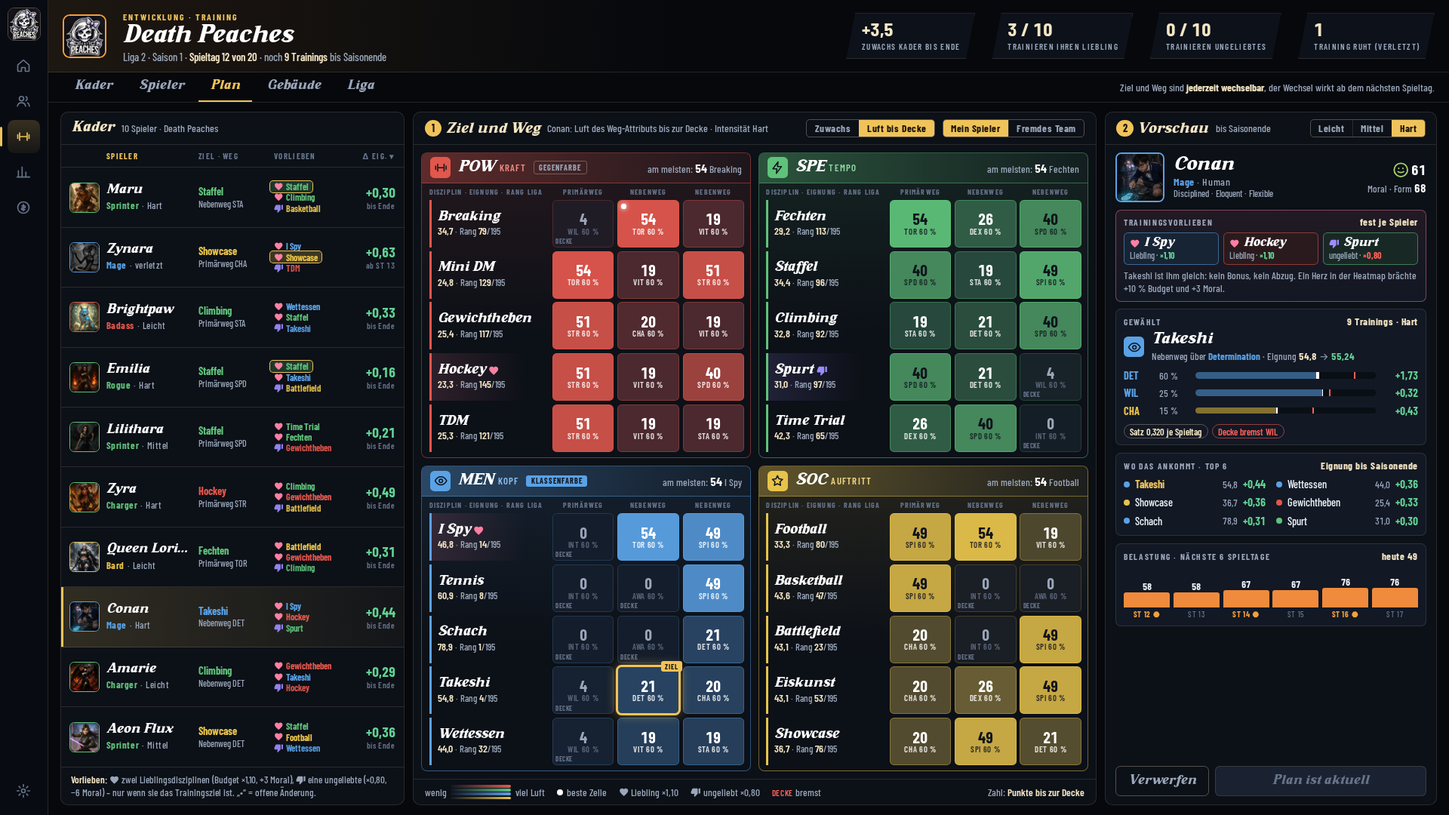
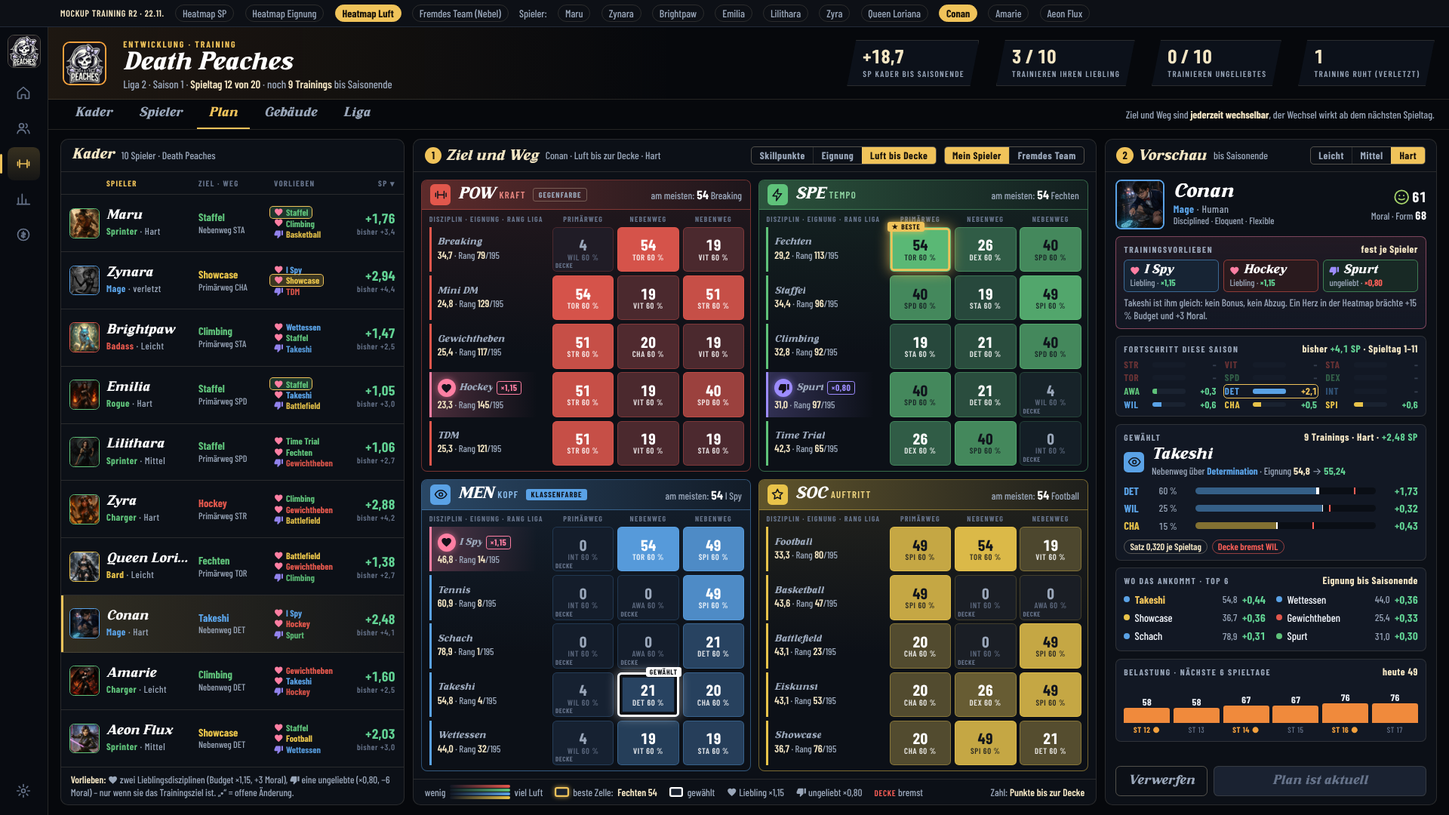
Konzept und Mockup: Training Runde 2b (Skillpunkte als Standard-Maß, Fortschritt je Attribut, Vorlieben ×1,15 / ×0,80)
- Heatmap rechnet standardmäßig mit der Summe der Skillpunkte bis Saisonende je Ziel und Weg; Eignung und Luft als Umschalter
- Fortschritt dieser Saison je Attribut in der Vorschau, bisher gesammelte SP in der Kaderliste
- Beste Zelle gold mit Marke, gewählte Zelle mit weißem Doppelrahmen, Vorlieben als gefülltes Symbol mit Faktor in der Zeile
- Stärke der Vorlieben wie die Attribut-Affinität (×1,15 / ×0,80), Balance neu gerechnet mit Ausgleich über den Satz je Spieltag

Claude-Session: https://claude.ai/code/session_01UYLNtXkprKr1XK4c3X2xQq

diff --git a/public/mockups/training-r2-22-11.html b/public/mockups/training-r2-22-11.html
@@ -148,20 +148,30 @@ main{display:grid;grid-template-rows:auto auto minmax(0,1fr);min-width:0;min-hei
 .zl{min-height:0;height:100%}
 .zl .dn{min-width:0;display:flex;flex-direction:column;justify-content:center;gap:.1rem;border-left:.2rem solid var(--c);padding-left:.5rem;height:100%}
 .zl .dn b{display:flex;align-items:center;gap:.3rem;font:400 1.12rem/1 var(--haus);color:#fff;white-space:nowrap}
-.zl .dn b svg{font-size:.9rem} .zl .dn b svg.lieb{color:var(--lieb)} .zl .dn b svg.unlieb{color:var(--unlieb)}
+.zl .dn b .dnn{overflow:hidden;text-overflow:ellipsis;min-width:0}
+.zl .dn b em{font-style:normal;flex:none;display:inline-flex;align-items:center;justify-content:center}
+.zl .dn b em.vb{width:1.5rem;height:1.5rem;border-radius:50%;font-size:.95rem;color:#14101a}
+.zl .dn b em.vb.l{background:var(--lieb);box-shadow:0 0 .5rem rgba(255,127,163,.6)} .zl .dn b em.vb.u{background:var(--unlieb);box-shadow:0 0 .5rem rgba(157,140,255,.6)}
+.zl .dn b em.vx{font:700 .74rem/1 var(--zahl);letter-spacing:.04em;padding:.14rem .3rem;border-radius:.2rem}
+.zl .dn b em.vx.l{color:var(--lieb);border:1px solid var(--lieb)} .zl .dn b em.vx.u{color:var(--unlieb);border:1px solid var(--unlieb)}
+.zl.lieb .dn{border-left-color:var(--lieb)} .zl.unlieb .dn{border-left-color:var(--unlieb)}
 .zl .dn span{font-size:.8rem;color:var(--leise);white-space:nowrap} .zl .dn span b{display:inline;font:600 .86rem/1 var(--zahl);color:var(--creme)}
-.zl.lieb .dn{background:linear-gradient(90deg,rgba(255,127,163,.14),transparent 80%)}
-.zl.unlieb .dn{background:linear-gradient(90deg,rgba(157,140,255,.14),transparent 80%)}
+.zl.lieb .dn{background:linear-gradient(90deg,rgba(255,127,163,.26),transparent 90%)}
+.zl.unlieb .dn{background:linear-gradient(90deg,rgba(157,140,255,.26),transparent 90%)}
 .hz{position:relative;height:100%;min-height:0;border-radius:.35rem;display:flex;flex-direction:column;align-items:center;justify-content:center;gap:.05rem;
   background:color-mix(in srgb,var(--c) calc(var(--t)*1%),#111723);border:1px solid color-mix(in srgb,var(--c) calc(18% + var(--t)*.6%),transparent);color:#fff;text-align:center}
 .hz b{font-size:1.28rem;font-weight:700;line-height:1}
 .hz span{font-size:.68rem;font-weight:600;letter-spacing:.06em;opacity:.85;line-height:1}
 .hz.hell{color:#10141c}
 .hz.kalt b{color:var(--leise)} .hz.kalt span{color:var(--stumm)}
-.hz:hover{outline:2px solid #fff;outline-offset:-2px}
-.hz.an{outline:.19rem solid var(--gold);outline-offset:-1px;box-shadow:0 0 1rem rgba(240,195,90,.55);z-index:2}
-.hz.an::after{content:"Ziel";position:absolute;top:-.5rem;right:-.3rem;font-size:.6rem;font-weight:700;letter-spacing:.1em;text-transform:uppercase;background:var(--gold);color:#17120a;padding:.05rem .3rem;border-radius:.2rem}
-.hz.best::before{content:"";position:absolute;left:.25rem;top:.25rem;width:.42rem;height:.42rem;border-radius:50%;background:#fff;box-shadow:0 0 .4rem #fff}
+.hz:hover{outline:1px dashed rgba(255,255,255,.8);outline-offset:-1px}
+/* R2b: Gewaehlt = weisser Doppelrahmen (eigene Farbe), Beste Zelle = Gold mit Stern. Beides zugleich: aussen weiss, innen gold. */
+.hz.an{outline:.2rem solid #fff;outline-offset:-.2rem;box-shadow:inset 0 0 0 .36rem #0b0e14,0 0 .9rem rgba(255,255,255,.5);z-index:3}
+.hz.best{box-shadow:inset 0 0 0 .17rem var(--gold),0 0 1.1rem rgba(240,195,90,.75);z-index:2}
+.hz.an.best{box-shadow:inset 0 0 0 .2rem #fff,inset 0 0 0 .38rem var(--gold),0 0 1rem rgba(240,195,90,.7);outline:0}
+.hz em{position:absolute;top:-.48rem;font-style:normal;font-size:.6rem;font-weight:700;letter-spacing:.08em;text-transform:uppercase;padding:.06rem .32rem;border-radius:.2rem;line-height:1.15;white-space:nowrap;opacity:1}
+.hz em.bm{left:-.25rem;background:var(--gold);color:#17120a;box-shadow:0 0 .5rem rgba(240,195,90,.8)}
+.hz em.gm{right:-.25rem;background:#fff;color:#0b0e14} .hz.best em.gm{top:auto;bottom:-.48rem}
 .hz .dk{position:absolute;left:.2rem;bottom:.12rem;font-size:.56rem;font-weight:700;letter-spacing:.06em;color:var(--warn);opacity:1}
 .hz.hell .dk{color:#7a1410}
 .hmf{flex:none;display:flex;align-items:center;gap:1rem;padding:.45rem .9rem;border-top:1px solid var(--linie);font-size:.84rem;color:var(--leise);white-space:nowrap;overflow:hidden}
@@ -170,7 +180,15 @@ main{display:grid;grid-template-rows:auto auto minmax(0,1fr);min-width:0;min-hei
 .skala i{display:block;width:7rem;height:.6rem;border-radius:.3rem;background:linear-gradient(90deg,#111723,var(--pow))}
 .skala i.s2{background:linear-gradient(90deg,#111723,var(--spe))} .skala i.s3{background:linear-gradient(90deg,#111723,var(--men))} .skala i.s4{background:linear-gradient(90deg,#111723,var(--soc))}
 .skala .st{display:flex;flex-direction:column;gap:.1rem} .skala .st i{width:5rem;height:.22rem}
-.hmf .p{display:inline-flex;align-items:center;gap:.3rem}
+.hmf .p,.hmf .lg{display:inline-flex;align-items:center;gap:.35rem}
+.hmf .lg i{display:inline-block;width:1.15rem;height:.8rem;border-radius:.18rem;background:#1a2230}
+.hmf .lg.b i{box-shadow:inset 0 0 0 .14rem var(--gold),0 0 .4rem rgba(240,195,90,.7)} .hmf .lg.g i{box-shadow:inset 0 0 0 .14rem #fff}
+/* Fortschritt dieser Saison je Attribut */
+.fs{display:grid;grid-template-columns:repeat(3,minmax(0,1fr));gap:.18rem .7rem}
+.fa{display:grid;grid-template-columns:2rem minmax(0,1fr) 2.2rem;gap:.35rem;align-items:center;font-size:.8rem;line-height:1.15}
+.fa span{font-weight:700;letter-spacing:.06em;color:var(--c)} .fa i{height:.42rem;border-radius:.2rem;background:#1a2230;overflow:hidden;display:block} .fa u{display:block;height:100%;background:var(--c);text-decoration:none}
+.fa b{text-align:right;font-weight:700;color:var(--gut,#62d394)} .fa.nix{opacity:.42} .fa.nix b{color:var(--stumm)}
+.fa.top{outline:1px solid var(--gold);outline-offset:.12rem;border-radius:.2rem} .fa.top b{color:var(--gold)}
 .hmf .p i{width:.5rem;height:.5rem;border-radius:50%;background:#fff;display:inline-block}
 
 /* VORSCHAU */
@@ -273,7 +291,7 @@ main{display:grid;grid-template-rows:auto auto minmax(0,1fr);min-width:0;min-hei
         <span class="lage">Liga 2 · Saison 1 · <b>Spieltag 12 von 20</b> · noch <b>9 Trainings</b> bis Saisonende</span>
       </div>
       <span class="sp"></span>
-      <div class="kpi"><strong class="t" id="k1">–</strong><span>Zuwachs Kader bis Ende</span></div>
+      <div class="kpi"><strong class="t" id="k1">–</strong><span>SP Kader bis Saisonende</span></div>
       <div class="kpi"><strong class="t" id="k2">–</strong><span>trainieren ihren Liebling</span></div>
       <div class="kpi"><strong class="t" id="k3">–</strong><span>trainieren Ungeliebtes</span></div>
       <div class="kpi"><strong class="t" id="k4">–</strong><span>Training ruht (verletzt)</span></div>
@@ -308,7 +326,7 @@ const KLASSE={Berserker:"pow",Warlord:"pow",Tank:"pow",Badass:"pow",Sprinter:"sp
 const SATZ={leicht:.178,mittel:.226,hart:.32}, LAST={leicht:6,mittel:12,hart:22}, MODN={leicht:"Leicht",mittel:"Mittel",hart:"Hart"};
 const ANTEIL=[.6,.25,.15];
 /* VORSCHLAG Trainingsvorlieben: Wirkung auf das Trainingsbudget und die Moral */
-const V_LIEB=1.10, V_UNLIEB=0.80, MORAL_LIEB=3, MORAL_UNLIEB=-6, TENDENZ=0.15;
+const V_LIEB=1.15, V_UNLIEB=0.80, MORAL_LIEB=3, MORAL_UNLIEB=-6, TENDENZ=0.15;
 const VORLIEBEN_AN=Q.get("vorlieben")!=="aus";
 const D=DATEN.D.map(d=>({...d,f:KAT[d.c]}));
 const DI=Object.fromEntries(D.map(d=>[d.id,d]));
@@ -358,28 +376,37 @@ const P=DATEN.P.map(p=>{
   q.neu={...q.ist};
   return q;
 });
+/* BEISPIELWERTE: Fortschritt dieser Saison je Attribut (Spieltag 1 bis 11). Modell: bisheriger Plan (Ziel, Weg, Intensitaet) ueber die
+   gespielten Spieltage, dazu zwei Attribute aus der Leistungs-Haelfte. Im Spiel kommt das aus dem Trainingsverlauf je Spieltag. */
+const GESPIELT=11;
+for(const p of P){
+  const out=Object.fromEntries(ATTR.map(a=>[a,0])), n=p.verl?GESPIELT-2:GESPIELT, b=SATZ[p.ist.mod]*n*vFaktor(p,p.ist.did);
+  for(const e of profil(p.ist.did,p.ist.weg)){const rest=p.ce?p.ce[e.a]-p.a[e.a]:20;out[e.a]+=b*e.anteil*(rest<=.5?.3:rest<=6?.65:1)}
+  const r=[...ATTR].sort((x,y)=>fnv(p.id+":b:"+y)-fnv(p.id+":b:"+x)).slice(0,2);out[r[0]]+=.35+fnv(p.id+":x")*.4;out[r[1]]+=.15+fnv(p.id+":y")*.25;
+  p.bisher=out;p.bisherS=Object.values(out).reduce((a,c)=>a+c,0);
+}
 const WUNSCH={Maru:"mittel","Queen Loriana":"leicht",Zyra:"mittel"};
-let S={sp:Math.max(0,P.findIndex(p=>p.key===(Q.get("spieler")||"maru"))),mass:Q.get("mass")==="luft"?"luft":"zuwachs",nebel:Q.get("nebel")==="1",sort:"reihe"};
+let S={sp:Math.max(0,P.findIndex(p=>p.key===(Q.get("spieler")||"maru"))),mass:["sp","zuwachs","luft"].includes(Q.get("mass"))?Q.get("mass"):"sp",nebel:Q.get("nebel")==="1",sort:"reihe"};
 if(Q.get("still")==="1")document.body.classList.add("still");
 
 function vpille(p,did,art,kurz){const d=DI[did];const akt=p.neu.did===did;
-  return `<span class="vp ${art>0?"l":"u"} c-${d.f}${akt?" akt":""}" data-tip="${art>0?"<b>Lieblingsdisziplin</b><br>Training mit diesem Ziel: Budget ×1,10 und +3 Moral, solange es Ziel ist.":"<b>Ungeliebte Disziplin</b><br>Training mit diesem Ziel: Budget ×0,80 und −6 Moral, solange es Ziel ist."}">${art>0?HERZ:DAUMEN}${d.n}</span>`}
+  return `<span class="vp ${art>0?"l":"u"} c-${d.f}${akt?" akt":""}" data-tip="${art>0?"<b>Lieblingsdisziplin</b><br>Training mit diesem Ziel: Budget ×1,15 und +3 Moral, solange es Ziel ist.":"<b>Ungeliebte Disziplin</b><br>Training mit diesem Ziel: Budget ×0,80 und −6 Moral, solange es Ziel ist."}">${art>0?HERZ:DAUMEN}${d.n}</span>`}
 
 function zeichneKader(){
   const el=$("p-kader");
-  const zeilen=P.map((p,i)=>{const zu=zuwachs(p,p.neu.did,p.neu.weg,p.neu.mod);return {p,i,dz:p.verl&&restST(p)===0?0:eigDelta(zu,p.neu.did)}});
+  const zeilen=P.map((p,i)=>{const zu=zuwachs(p,p.neu.did,p.neu.weg,p.neu.mod);return {p,i,dz:p.verl&&restST(p)===0?0:zu.summe}});
   if(S.sort==="dz")zeilen.sort((a,b)=>b.dz-a.dz);
   if(S.sort==="vor")zeilen.sort((a,b)=>vArt(b.p,b.p.neu.did)-vArt(a.p,a.p.neu.did)||a.p.n.localeCompare(b.p.n));
   el.innerHTML=`<div class="pk"><h2>Kader</h2><small>${P.length} Spieler · Death Peaches</small></div>
-  <div class="kh"><span></span><a data-sort="reihe" class="${S.sort==="reihe"?"an":""}">Spieler</a><span>Ziel · Weg</span><a data-sort="vor" class="${S.sort==="vor"?"an":""}">Vorlieben</a><a data-sort="dz" class="r ${S.sort==="dz"?"an":""}">Δ Eig. ▾</a></div>
+  <div class="kh"><span></span><a data-sort="reihe" class="${S.sort==="reihe"?"an":""}">Spieler</a><span>Ziel · Weg</span><a data-sort="vor" class="${S.sort==="vor"?"an":""}">Vorlieben</a><a data-sort="dz" class="r ${S.sort==="dz"?"an":""}" data-tip="Skillpunkte bis Saisonende mit dem aktuellen Plan.<br>Klein darunter: was er diese Saison schon gesammelt hat.">SP ▾</a></div>
   <div class="kl">${zeilen.map(({p,i,dz})=>{const d=DI[p.neu.did];const pr=profil(p.neu.did,p.neu.weg);const geaendert=p.neu.did!==p.ist.did||p.neu.weg!==p.ist.weg||p.neu.mod!==p.ist.mod;
     return `<a class="kz c-${p.kf}${i===S.sp&&!S.nebel?" an":""}${p.verl?" verl":""}" data-sp="${i}" data-nebel="0">
       <span class="po"><img src="..${p.port}" alt=""></span>
       <span class="nm"><b>${p.n}</b><span>${p.kl} <i>· ${p.verl?"verletzt":MODN[p.neu.mod]}</i></span></span>
       <span class="zi c-${d.f}"><b>${d.n}${geaendert?" •":""}</b><span>${p.neu.weg===0?"Primärweg":"Nebenweg"} ${AK[pr[0].a]}</span></span>
       <span class="vl">${VORLIEBEN_AN?vpille(p,p.v.lieb[0],1)+vpille(p,p.v.lieb[1],1)+vpille(p,p.v.unlieb,-1):'<span class="vp q">Regel aus</span>'}</span>
-      <span class="dz t ${dz>0?"plus":"null"}">${pm(dz)}<small>${p.verl?"ab ST "+p.zurueck:"bis Ende"}</small></span></a>`}).join("")}</div>
-  <div class="kfuss"><b>Vorlieben:</b> ${HERZ} zwei Lieblingsdisziplinen (Budget ×1,10, +3 Moral), ${DAUMEN} eine ungeliebte (×0,80, −6 Moral) – nur wenn sie das Trainingsziel ist. „•“ = offene Änderung.</div>`;
+      <span class="dz t ${dz>0?"plus":"null"}">${pm(dz)}<small>bisher ${pm(p.bisherS,1)}</small></span></a>`}).join("")}</div>
+  <div class="kfuss"><b>Vorlieben:</b> ${HERZ} zwei Lieblingsdisziplinen (Budget ×1,15, +3 Moral), ${DAUMEN} eine ungeliebte (×0,80, −6 Moral) – nur wenn sie das Trainingsziel ist. „•“ = offene Änderung.</div>`;
 }
 
 function zeichneHeat(){
@@ -387,7 +414,7 @@ function zeichneHeat(){
   if(S.nebel){
     const st=[2,2,1,1,0,0,0], sn=["unbekannt","beobachtet","gescoutet"];
     const ber=(v,s)=>s===2?z(v):s===1?`${Math.floor(v/5)*5}–${Math.floor(v/5)*5+5}`:`${Math.floor(v/10)*10}–${Math.floor(v/10)*10+10}`;
-    const zelle=(id,art,sicht)=>sicht?`<span class="fz c-${DI[id].f}"><b>${art>0?HERZ:DAUMEN}${DI[id].n}</b><span>${BAND.find(b=>b[0]===DI[id].f)[1]} · ${art>0?"trainiert ×1,10":"trainiert ×0,80"}</span></span>`:`<span class="fz q"><b>${FRAGE}unbekannt</b><span>${art>0?"Lieblingsdisziplin":"ungeliebte Disziplin"}</span></span>`;
+    const zelle=(id,art,sicht)=>sicht?`<span class="fz c-${DI[id].f}"><b>${art>0?HERZ:DAUMEN}${DI[id].n}</b><span>${BAND.find(b=>b[0]===DI[id].f)[1]} · ${art>0?"trainiert ×1,15":"trainiert ×0,80"}</span></span>`:`<span class="fz q"><b>${FRAGE}unbekannt</b><span>${art>0?"Lieblingsdisziplin":"ungeliebte Disziplin"}</span></span>`;
     el.innerHTML=`<div class="pk"><h2>Cash Creators</h2><small>fremdes Team · Vorlieben unter Scouting-Nebel</small><span class="sp"></span><div class="seg"><a data-nebel="0">Mein Spieler</a><a class="an">Fremdes Team</a></div></div>
     <div class="fh"><span></span><span>Spieler</span><span>Scouting</span><span>Liebling 1</span><span>Liebling 2</span><span>Ungeliebt</span><span class="r">Beste Disziplin</span></div>
     <div class="fl">${DATEN.F.map((f,i)=>{const v=vorlieben({id:f.id,kl:f.kl,e:f.e});const kf=KLASSE[f.kl]||"bal";const s=st[i];const bd=[...D].sort((a,b)=>f.e[b.id]-f.e[a.id])[0];
@@ -397,25 +424,29 @@ function zeichneHeat(){
   const mod=p.neu.mod;
   const zellen={}; let max=0, min=1e9, best=null;
   for(const d of D)for(let w=0;w<3;w++){
-    const zu=zuwachs(p,d.id,w,mod); const v=S.mass==="luft"?Math.max(0,(p.ce?p.ce[profil(d.id,w)[0].a]:99)-p.a[profil(d.id,w)[0].a]):eigDelta(zu,d.id);
-    zellen[d.id+w]={v,zu}; if(v>max){max=v;best=d.id+w} if(v<min)min=v;
+    const zu=zuwachs(p,d.id,w,mod); const eg=eigDelta(zu,d.id); const v=S.mass==="luft"?Math.max(0,(p.ce?p.ce[profil(d.id,w)[0].a]:99)-p.a[profil(d.id,w)[0].a]):S.mass==="sp"?zu.summe:eg;
+    /* beste Zelle: groesster Wert; bei gleichen Skillpunkten entscheidet der Eignungszuwachs */
+    zellen[d.id+w]={v,zu,eg}; if(v>max+1e-9||(Math.abs(v-max)<1e-9&&best&&eg>zellen[best].eg)){max=v;best=d.id+w} if(v<min)min=v;
   }
+  if(!best)best=D[0].id+"0";
+  const MT={sp:"Skillpunkte bis Saisonende",zuwachs:"Eignungszuwachs bis Saisonende",luft:"Luft bis zur Decke"}[S.mass];
+  const fm=v=>S.mass==="luft"?z(v,0):pm(v), bz=zellen[best], bd=DI[best.slice(0,-1)];
   const kf=p.kf;
-  el.innerHTML=`<div class="pk"><h2><b>1</b>Ziel und Weg</h2><small>${p.n}: ${S.mass==="luft"?"Luft des Weg-Attributs bis zur Decke":"Eignungszuwachs im Ziel bis Saisonende"} · Intensität ${MODN[mod]}</small><span class="sp"></span>
-    <div class="seg"><a data-mass="zuwachs" class="${S.mass==="zuwachs"?"an":""}">Zuwachs</a><a data-mass="luft" class="${S.mass==="luft"?"an":""}">Luft bis Decke</a></div><div class="seg"><a class="an">Mein Spieler</a><a data-nebel="1">Fremdes Team</a></div></div>
+  el.innerHTML=`<div class="pk"><h2><b>1</b>Ziel und Weg</h2><small>${p.n} · ${MT} · ${MODN[mod]}</small><span class="sp"></span>
+    <div class="seg"><a data-mass="sp" class="${S.mass==="sp"?"an":""}" data-tip="<b>Standard.</b> Summe der Skillpunkte über alle drei Attribute des Wegs bis Saisonende. Mit dieser Zahl rechnen Vorschau und Kaderliste.">Skillpunkte</a><a data-mass="zuwachs" class="${S.mass==="zuwachs"?"an":""}">Eignung</a><a data-mass="luft" class="${S.mass==="luft"?"an":""}">Luft bis Decke</a></div><div class="seg"><a class="an">Mein Spieler</a><a data-nebel="1">Fremdes Team</a></div></div>
   <div class="hm">${BAND.map(([f,k,n])=>{
     const ds=D.filter(d=>d.f===f).sort((a,b)=>Math.max(...[0,1,2].map(w=>zellen[b.id+w].v))-Math.max(...[0,1,2].map(w=>zellen[a.id+w].v)));
     let bb=null,bv=-1; for(const d of ds)for(let w=0;w<3;w++)if(zellen[d.id+w].v>bv){bv=zellen[d.id+w].v;bb=d}
-    return `<div class="band c-${f}"><div class="bk"><span class="ic">${ICON[f]}</span><h3>${k}<small>${n}</small></h3>${kf===f?'<span class="kf">Klassenfarbe</span>':kf!=="bal"&&GEGEN[kf]===f?'<span class="kf" style="background:transparent;color:var(--leise);border:1px solid var(--linie-2)">Gegenfarbe</span>':""}<span class="sp"></span><span class="best">am meisten: <b class="t">${S.mass==="luft"?z(bv,0):pm(bv)}</b> ${bb.n}</span></div>
+    return `<div class="band c-${f}"><div class="bk"><span class="ic">${ICON[f]}</span><h3>${k}<small>${n}</small></h3>${kf===f?'<span class="kf">Klassenfarbe</span>':kf!=="bal"&&GEGEN[kf]===f?'<span class="kf" style="background:transparent;color:var(--leise);border:1px solid var(--linie-2)">Gegenfarbe</span>':""}<span class="sp"></span><span class="best">am meisten: <b class="t">${fm(bv)}</b> ${bb.n}</span></div>
       <div class="sph"><span>Disziplin · Eignung · Rang Liga</span><span>Primärweg</span><span>Nebenweg</span><span>Nebenweg</span></div>
       <div class="zln">${ds.map(d=>{const va=vArt(p,d.id);
-        return `<div class="zl${va>0?" lieb":va<0?" unlieb":""}"><span class="dn" ${va?`data-tip="${va>0?"<b>Lieblingsdisziplin</b> von "+p.n+"<br>Budget ×1,10 · +3 Moral":"<b>Ungeliebte Disziplin</b> von "+p.n+"<br>Budget ×0,80 · −6 Moral"}"`:""}><b>${d.n}${va>0?HERZ:va<0?DAUMEN:""}</b><span><b class="t">${z(p.e[d.id])}</b> · Rang <b class="t">${p.rg[d.id]}</b>/${DATEN.ligaN}</span></span>
+        return `<div class="zl${va>0?" lieb":va<0?" unlieb":""}"><span class="dn" ${va?`data-tip="${va>0?"<b>Lieblingsdisziplin</b> von "+p.n+"<br>Budget ×1,15 · +3 Moral":"<b>Ungeliebte Disziplin</b> von "+p.n+"<br>Budget ×0,80 · −6 Moral"}"`:""}><b>${va?`<em class="vb ${va>0?"l":"u"}">${va>0?HERZ:DAUMEN}</em>`:""}<span class="dnn">${d.n}</span>${va?`<em class="vx ${va>0?"l":"u"}">${va>0?"×1,15":"×0,80"}</em>`:""}</b><span><b class="t">${z(p.e[d.id])}</b> · Rang <b class="t">${p.rg[d.id]}</b>/${DATEN.ligaN}</span></span>
         ${[0,1,2].map(w=>{const c=zellen[d.id+w],pr=profil(d.id,w),t=max>min?Math.pow((c.v-min)/(max-min),1.25):0;const an=p.neu.did===d.id&&p.neu.weg===w;
-          const tip=`<b>${d.n} · ${w===0?"Primärweg":"Nebenweg"} ${AN[pr[0].a]}</b><br>${pr.map(e=>`${AK[e.a]} ${Math.round(e.anteil*100)} % (Matrix ${e.g}) <i>${z(p.a[e.a])} → Decke ${p.ce?p.ce[e.a]:"?"}</i> ${pm(c.zu.att[e.a])}`).join("<br>")}<br>Eignung ${d.n}: ${z(p.e[d.id])} → <b>${z(p.e[d.id]+eigDelta(c.zu,d.id),2)}</b>${va?`<br>${va>0?"Lieblingsdisziplin ×1,10":"Ungeliebt ×0,80"}`:""}${c.zu.brems.length?`<br><i>Decke bremst: ${c.zu.brems.map(a=>AK[a]).join(", ")}</i>`:""}`;
-          return `<a class="hz${t>.62&&(f==="soc"||f==="spe")?" hell":""}${t<.2?" kalt":""}${an?" an":""}${d.id+w===best?" best":""}" style="--t:${(4+t*90).toFixed(1)}" data-z="${d.id}|${w}" data-tip='${tip}'><b class="t">${S.mass==="luft"?z(c.v,0):pm(c.v)}</b><span>${AK[pr[0].a]} 60 %</span>${c.zu.brems.includes(pr[0].a)?'<span class="dk">DECKE</span>':""}</a>`}).join("")}</div>`}).join("")}</div></div>`}).join("")}</div>
-  <div class="hmf"><span class="skala"><span>wenig</span><span class="st"><i></i><i class="s2"></i><i class="s3"></i><i class="s4"></i></span><span>viel ${S.mass==="luft"?"Luft":"Zuwachs"}</span></span>
-    <span class="p"><i></i>beste Zelle</span><span>${HERZ} Liebling ×1,10</span><span>${DAUMEN} ungeliebt ×0,80</span><span><b style="color:var(--warn);font-size:.7rem;letter-spacing:.06em">DECKE</b> bremst</span>
-    <span class="sp" style="flex:1"></span><span>Zahl: <b>${S.mass==="luft"?"Punkte bis zur Decke":"Eignung bis Saisonende"}</b></span></div>`;
+          const tip=`<b>${d.n} · ${w===0?"Primärweg":"Nebenweg"} ${AN[pr[0].a]}</b><br>${pr.map(e=>`${AK[e.a]} ${Math.round(e.anteil*100)} % (Matrix ${e.g}) <i>${z(p.a[e.a])} → Decke ${p.ce?p.ce[e.a]:"?"}</i> ${pm(c.zu.att[e.a])}`).join("<br>")}<br><b>Summe ${pm(c.zu.summe)} SP bis Saisonende</b><br>Eignung ${d.n}: ${z(p.e[d.id])} → <b>${z(p.e[d.id]+eigDelta(c.zu,d.id),2)}</b>${va?`<br>${va>0?"Lieblingsdisziplin ×1,15":"Ungeliebt ×0,80"}`:""}${c.zu.brems.length?`<br><i>Decke bremst: ${c.zu.brems.map(a=>AK[a]).join(", ")}</i>`:""}`;
+          return `<a class="hz${t>.62&&(f==="soc"||f==="spe")?" hell":""}${t<.2?" kalt":""}${an?" an":""}${d.id+w===best?" best":""}" style="--t:${(4+t*90).toFixed(1)}" data-z="${d.id}|${w}" data-tip='${tip}'><b class="t">${fm(c.v)}</b><span>${AK[pr[0].a]} 60 %</span>${d.id+w===best?'<em class="bm">★ Beste</em>':""}${an?'<em class="gm">Gewählt</em>':""}${c.zu.brems.includes(pr[0].a)?'<span class="dk">DECKE</span>':""}</a>`}).join("")}</div>`}).join("")}</div></div>`}).join("")}</div>
+  <div class="hmf"><span class="skala"><span>wenig</span><span class="st"><i></i><i class="s2"></i><i class="s3"></i><i class="s4"></i></span><span>viel ${S.mass==="luft"?"Luft":S.mass==="sp"?"SP":"Zuwachs"}</span></span>
+    <span class="lg b"><i></i>beste Zelle: <b>${bd.n} ${fm(bz.v)}</b></span><span class="lg g"><i></i>gewählt</span><span>${HERZ} Liebling ×1,15</span><span>${DAUMEN} ungeliebt ×0,80</span><span><b style="color:var(--warn);font-size:.7rem;letter-spacing:.06em">DECKE</b> bremst</span>
+    <span class="sp" style="flex:1"></span><span>Zahl: <b>${S.mass==="luft"?"Punkte bis zur Decke":S.mass==="sp"?"Skillpunkte bis Saisonende":"Eignung bis Saisonende"}</b></span></div>`;
 }
 
 function gesicht(m){const c=m>=80?"#62d394":m>=60?"#a6d36a":m>=40?"#e8c34a":m>=20?"#f08a3c":"#ff5a52";const mund=m>=60?"M8 14.500c1.200 1.600 6.800 1.600 8 0":m>=40?"M8.500 15h7":"M8 16c1.200-1.600 6.800-1.600 8 0";
@@ -424,9 +455,9 @@ function gesicht(m){const c=m>=80?"#62d394":m>=60?"#a6d36a":m>=40?"#e8c34a":m>=2
 function zeichneVor(){
   const el=$("p-vor");
   if(S.nebel){el.innerHTML=`<div class="pk"><h2>Die Regel in Zahlen</h2><small>Vorschlag 22.11.</small></div><div class="vs">
-    <div class="kasten vor"><h4>${HERZ} Zwei Lieblingsdisziplinen</h4><p class="vtx" style="margin:0">Ist eine davon das Trainingsziel: <b class="plus">+10 % Trainingsbudget</b> und <b class="plus">+3 Moral</b>, solange sie Ziel bleibt.</p></div>
+    <div class="kasten vor"><h4>${HERZ} Zwei Lieblingsdisziplinen</h4><p class="vtx" style="margin:0">Ist eine davon das Trainingsziel: <b class="plus">+15 % Trainingsbudget</b> und <b class="plus">+3 Moral</b>, solange sie Ziel bleibt.</p></div>
     <div class="kasten" style="border-color:rgba(157,140,255,.45)"><h4>${DAUMEN} Eine ungeliebte Disziplin</h4><p class="vtx" style="margin:0">Ist sie das Trainingsziel: <b class="minus">−20 % Trainingsbudget</b> und <b class="minus">−6 Moral</b>, solange sie Ziel bleibt.</p></div>
-    <div class="kasten"><h4>Warum 10 und 20</h4><p class="vtx" style="margin:0">Zwei von zwanzig Disziplinen geben +10 %, eine gibt −20 %: bei zufälliger Zielwahl hebt sich das <b>genau auf</b> (2 × 10 = 1 × 20). Zum Vergleich: Signatur-Attribut ×1,15, schwaches Attribut ×0,80, Fokusachse +8 %.</p></div>
+    <div class="kasten"><h4>Warum 15 und 20</h4><p class="vtx" style="margin:0">Dieselben Faktoren wie bei der Attribut-Affinität im Code: Signatur ×1,15, schwach ×0,80. Bei zufälliger Zielwahl bleibt ein kleines Plus (2 × 15 − 20 = +10 Punkte über 20 Disziplinen, <b>+0,5 %</b>); bei gezielter Wahl rund +4,7 % Budget. Ausgleich: Satz je Spieltag um rund 4,4 % senken, wenn die Messung das bestätigt.</p></div>
     <div class="kasten"><h4>Wie gewürfelt wird</h4><p class="vtx" style="margin:0">Fest je Spieler aus seiner ID, <b>stark zufällig</b>. Leichte Tendenz: Lieblinge eher in der Klassenfarbe und unter den besten fünf, die ungeliebte eher in der Gegenfarbe und unter den schwächsten fünf.</p></div>
     <div class="kasten"><h4>Was sich nicht ändert</h4><p class="vtx" style="margin:0">Die Matrix, die Leistungs-Hälfte der Entwicklung (40 %), die Wertung im Spiel. Die Vorliebe wirkt <b>nur</b> auf das Trainingsbudget – und nur, wenn die Disziplin das Ziel ist.</p></div>
     <div class="kasten"><h4>Sichtbarkeit</h4><p class="vtx" style="margin:0">Eigenes Team: immer. Fremde: nach Scouting-Stufe. Eine Einstellung schaltet den Nebel ganz ab.</p></div>
@@ -446,12 +477,14 @@ function zeichneVor(){
       <div class="mo"><span>${gesicht(p.mo)} <b class="t">${p.mo}</b>${dMo?` <b class="t ${dMo>0?"plus":"minus"}" style="font-size:.95rem">${dMo>0?"+":"−"}${Math.abs(dMo)}</b>`:""}</span><span>Moral · Form <b class="t" style="font-size:.95rem">${z(p.fo,0)}</b></span></div></div>
     ${p.verl?`<div class="ruht"><b>Nicht einsetzbar bis Spieltag 12.</b> Das Training ruht, Ziel und Intensität gelten ab der Rückkehr (Spieltag ${p.zurueck}). Gerechnet werden <b>${restST(p)} statt 9</b> Trainings; keine Trainingslast, solange er fehlt.</div>`:""}
     ${VORLIEBEN_AN?`<div class="kasten vor"><h4>Trainingsvorlieben<span class="sp"></span><em>fest je Spieler</em></h4>
-      <div class="vch">${p.v.lieb.map(id=>`<div class="vc c-${DI[id].f}${p.neu.did===id?" akt":""}"><b>${HERZ}${DI[id].n}</b><span>Liebling · <i class="plus">×1,10</i></span></div>`).join("")}<div class="vc u c-${DI[p.v.unlieb].f}${p.neu.did===p.v.unlieb?" akt":""}"><b>${DAUMEN}${DI[p.v.unlieb].n}</b><span>ungeliebt · <i class="minus">×0,80</i></span></div></div>
-      <p class="vtx">${va>0?`<b>Trainiert seine Lieblingsdisziplin:</b> +10 % Trainingsbudget und <b class="plus">+3 Moral</b>, solange ${d.n} das Ziel ist.`:va<0?`<b>Trainiert, was er nicht mag:</b> −20 % Trainingsbudget und <b class="minus">−6 Moral</b>, solange ${d.n} das Ziel ist.`:`${d.n} ist ihm gleich: kein Bonus, kein Abzug. Ein Herz in der Heatmap brächte +10 % Budget und +3 Moral.`}</p></div>`:""}
-    <div class="kasten c-${d.f}"><h4>Gewählt${geaendert?' · offene Änderung':""}<span class="sp"></span><em>${restST(p)} Trainings · ${MODN[p.neu.mod]}</em></h4>
+      <div class="vch">${p.v.lieb.map(id=>`<div class="vc c-${DI[id].f}${p.neu.did===id?" akt":""}"><b>${HERZ}${DI[id].n}</b><span>Liebling · <i class="plus">×1,15</i></span></div>`).join("")}<div class="vc u c-${DI[p.v.unlieb].f}${p.neu.did===p.v.unlieb?" akt":""}"><b>${DAUMEN}${DI[p.v.unlieb].n}</b><span>ungeliebt · <i class="minus">×0,80</i></span></div></div>
+      <p class="vtx">${va>0?`<b>Trainiert seine Lieblingsdisziplin:</b> +15 % Trainingsbudget und <b class="plus">+3 Moral</b>, solange ${d.n} das Ziel ist.`:va<0?`<b>Trainiert, was er nicht mag:</b> −20 % Trainingsbudget und <b class="minus">−6 Moral</b>, solange ${d.n} das Ziel ist.`:`${d.n} ist ihm gleich: kein Bonus, kein Abzug. Ein Herz in der Heatmap brächte +15 % Budget und +3 Moral.`}</p></div>`:""}
+    <div class="kasten"><h4>Fortschritt diese Saison<span class="sp"></span><em>bisher <b class="t plus">${pm(p.bisherS,1)} SP</b> · Spieltag 1–${GESPIELT}</em></h4>
+      <div class="fs">${(()=>{const mx=Math.max(...ATTR.map(a=>p.bisher[a])),ord=["pow","spe","men","soc"];return [...ATTR].sort((x,y)=>ord.indexOf(ACHSE[x])-ord.indexOf(ACHSE[y])).map(a=>{const b=p.bisher[a];return `<div class="fa c-${ACHSE[a]}${b>.005?"":" nix"}${b===mx?" top":""}" data-tip="<b>${AN[a]}</b><br>Saisonstart ${z(p.a[a]-b)} → heute <b>${z(p.a[a])}</b>${b>.005?"<br>diese Saison "+pm(b):"<br>diese Saison unverändert"}${b===mx?"<br><i>größter Fortschritt</i>":""}"><span>${AK[a]}</span><i><u style="width:${mx?b/mx*100:0}%"></u></i><b class="t">${b>.005?pm(b,1):"–"}</b></div>`}).join("")})()}</div></div>
+    <div class="kasten c-${d.f}"><h4>Gewählt${geaendert?' · offene Änderung':""}<span class="sp"></span><em>${restST(p)} Trainings · ${MODN[p.neu.mod]} · <b class="t plus">${pm(zu.summe)} SP</b></em></h4>
       <div class="wahl"><span class="bk" style="background:none;border:0;padding:0;height:auto"><span class="ic">${ICON[d.f]}</span></span><div class="zn"><b>${d.n}</b><span>${p.neu.weg===0?"Primärweg":"Nebenweg"} über <i>${AN[pr[0].a]}</i> · Eignung <b class="t" style="color:var(--creme)">${z(p.e[d.id])}</b> → <b class="t plus">${z(p.e[d.id]+eigDelta(zu,d.id),2)}</b></span></div></div>
       <div style="margin-top:.4rem">${pr.map(e=>{const a=p.a[e.a],c=p.ce?p.ce[e.a]:99,g=zu.att[e.a];return `<div class="ar c-${ACHSE[e.a]}" data-tip="<b>${AN[e.a]}</b><br>heute ${z(a)} · Decke ${c} · Matrixgewicht ${e.g}${zu.brems.includes(e.a)?"<br><i>Die Decke bremst diesen Anteil.</i>":""}"><span class="ab">${AK[e.a]}</span><span class="an2 t">${Math.round(e.anteil*100)} %</span><span class="ba"><i style="width:${a}%"></i><u style="left:${a}%;width:${Math.max(.6,g)}%"></u><s style="left:${c}%"></s></span><span class="gw t plus">${pm(g)}</span></div>`}).join("")}</div>
-      <div class="fk"><span>Satz ${z(SATZ[p.neu.mod],3)} je Spieltag</span>${va>0?'<span class="l">Liebling ×1,10</span>':va<0?'<span class="u">ungeliebt ×0,80</span>':""}${zu.brems.length?`<span class="s">Decke bremst ${zu.brems.map(a=>AK[a]).join(", ")}</span>`:'<span class="g">keine Decke im Weg</span>'}</div></div>
+      <div class="fk"><span>Satz ${z(SATZ[p.neu.mod],3)} je Spieltag</span>${va>0?'<span class="l">Liebling ×1,15</span>':va<0?'<span class="u">ungeliebt ×0,80</span>':""}${zu.brems.length?`<span class="s">Decke bremst ${zu.brems.map(a=>AK[a]).join(", ")}</span>`:'<span class="g">keine Decke im Weg</span>'}</div></div>
     <div class="kasten"><h4>Wo das ankommt · Top 6<span class="sp"></span><em>Eignung bis Saisonende</em></h4>
       <div class="an6">${ank.map(x=>`<div class="a6 c-${x.d.f}${x.d.id===d.id?" zielz":""}"><i></i><span>${x.d.n}</span><em class="t">${z(p.e[x.d.id])}</em><b class="t plus">${pm(x.dz)}</b></div>`).join("")}</div></div>
     <div class="kasten"><h4>Belastung · nächste 6 Spieltage<span class="sp"></span><em>heute ${z(p.fat,0)}</em></h4>
@@ -463,13 +496,13 @@ function zeichneVor(){
 
 function kpis(){
   let s=0,l=0,u=0,r=0;
-  for(const p of P){s+=eigDelta(zuwachs(p,p.neu.did,p.neu.weg,p.neu.mod),p.neu.did);const a=vArt(p,p.neu.did);if(a>0)l++;if(a<0)u++;if(p.verl)r++}
+  for(const p of P){s+=zuwachs(p,p.neu.did,p.neu.weg,p.neu.mod).summe;const a=vArt(p,p.neu.did);if(a>0)l++;if(a<0)u++;if(p.verl)r++}
   $("k1").textContent=pm(s,1);$("k2").textContent=l+" / "+P.length;$("k3").textContent=u+" / "+P.length;$("k4").textContent=r;
 }
 function alles(){zeichneKader();zeichneHeat();zeichneVor();kpis();demo()}
 function demo(){
   const p=P[S.sp];
-  $("demo").innerHTML=`<b>Mockup Training R2 · 22.11.</b> <a class="${!S.nebel&&S.mass==="zuwachs"?"an":""}" data-mass="zuwachs" data-nebel="0">Heatmap Zuwachs</a><a class="${!S.nebel&&S.mass==="luft"?"an":""}" data-mass="luft" data-nebel="0">Heatmap Luft</a><a class="${S.nebel?"an":""}" data-nebel="1">Fremdes Team (Nebel)</a>
+  $("demo").innerHTML=`<b>Mockup Training R2 · 22.11.</b> <a class="${!S.nebel&&S.mass==="sp"?"an":""}" data-mass="sp" data-nebel="0">Heatmap SP</a><a class="${!S.nebel&&S.mass==="zuwachs"?"an":""}" data-mass="zuwachs" data-nebel="0">Heatmap Eignung</a><a class="${!S.nebel&&S.mass==="luft"?"an":""}" data-mass="luft" data-nebel="0">Heatmap Luft</a><a class="${S.nebel?"an":""}" data-nebel="1">Fremdes Team (Nebel)</a>
     <span>Spieler:</span>${P.map((q,i)=>`<a data-sp="${i}" data-nebel="0" class="${!S.nebel&&i===S.sp?"an":""}">${q.n}</a>`).join("")}`;
 }
 document.addEventListener("click",e=>{

diff --git a/docs/design/training-r2-22-11.md b/docs/design/training-r2-22-11.md
@@ -11,14 +11,24 @@ Chris am 22.11., wörtlich:
    Diszis auch so übernehmen? Der Spieler hat 2 positive Diszis, auf die er Bock hat zu trainieren, wo er effizienter wird,
    und 1, wo er schlechter trainiert.“
 
+**Runde 2b, Chris am 22.11. zum Mockup, wörtlich:** „Mach in der Heatmap den Gesamtwert an Skillpunkten, den der Spieler
+sammeln würde bis Ende der Saison, das soll der Standardwert sein, mit dem gerechnet wird. Und man muss auch schon irgendwo den
+aktuellen Fortschritt erkennen, welche Stats der Spieler sich verbessert hat. Das Beste kannst du noch hervorheben und wie
+gesagt die 2 Diszis, die er gut kann, und 1, die er schlecht kann, markieren mit nem Icon oder so. Aktuell ausgewählt umrahmen,
+aber farblich erkennbar, nicht in der gleichen Farbe.“ Dazu seine Entscheidung zur Stärke: **Lieblingsdisziplin ×1,15,
+ungeliebte ×0,80**, genau wie die Attribut-Affinität im Code (`SIGNATURE_ORGANIC_GROWTH_MULTIPLIER = 1.15`,
+`WEAK_ORGANIC_GROWTH_MULTIPLIER = 0.8` in `lib/training/organic-season-progression.ts`). Moral +3 / −6 und „fest je Spieler“
+bleiben. Umgesetzt in den Abschnitten 2, 3.2, 3.3 und 3.6.
+
 ## 1. Aufnahmen
 
 Alle unter `docs/design/training-r2-22-11/`, je 1920×1080 und 2560×1440, ohne Seitenscroll, ohne JS-Fehler.
 
 | Ansicht | Datei | URL |
 |---|---|---|
-| Heatmap „Zuwachs“, Maru trainiert seinen Liebling Staffel | `heatmap-maru-*.png` | `?spieler=maru` |
-| Verletzte Spielerin (Zynara), Training ruht | `heatmap-zynara-verletzt-*.png` | `?spieler=zynara` |
+| Heatmap „Skillpunkte“ (Standard), Maru trainiert seinen Liebling Staffel | `heatmap-maru-*.png` | `?spieler=maru` |
+| Heatmap „Eignung“ (Zyra) | `heatmap-eignung-zyra-*.png` | `?spieler=zyra&mass=zuwachs` |
+| Verletzte Spielerin (Zynara), Training ruht; beste Zelle ist zugleich gewählt | `heatmap-zynara-verletzt-*.png` | `?spieler=zynara` |
 | Heatmap „Luft bis Decke“ (Conan) | `heatmap-luft-conan-*.png` | `?spieler=conan&mass=luft` |
 | Fremdes Team unter Scouting-Nebel, Regel in Zahlen | `nebel-fremdes-team-*.png` | `?nebel=1` |
 
@@ -40,20 +50,35 @@ Ein Klick auf eine Zelle setzt Ziel und Weg in einem Schritt; der getrennte Schr
   Zelle („am meisten: +0,72 Gewichtheben“). Die Tafel in der Klassenfarbe des Spielers trägt die Marke „Klassenfarbe“,
   die gegenüberliegende „Gegenfarbe“ (POW↔MEN, SPE↔SOC, wie bei den Formkarten).
 - **Farbe = Größe des Werts.** Jede Zelle ist im Farbton ihres Bereichs gefüllt, die Sättigung zeigt den Wert, gespreizt
-  zwischen kleinstem und größtem Wert des Spielers. Die Zahl steht immer in der Zelle, die beste Zelle trägt einen
-  weißen Punkt. In jeder Tafel stehen die Disziplinen absteigend nach ihrer besten Zelle.
-- **Zwei Maße, ein Umschalter:**
-  - **Zuwachs** (Standard): erwarteter Eignungszuwachs im Ziel bis Saisonende bei der gewählten Intensität.
+  zwischen kleinstem und größtem Wert des Spielers. Die Zahl steht immer in der Zelle. In jeder Tafel stehen die Disziplinen
+  absteigend nach ihrer besten Zelle.
+- **Drei Maße, ein Umschalter** (`&mass=sp|zuwachs|luft`):
+  - **Skillpunkte** (Standard, Runde 2b): Summe der Skillpunkte (SP), die der Spieler mit diesem Ziel und diesem Weg bis
+    Saisonende sammelt, über alle drei Attribute des Wegs (60/25/15), mit Decke und Vorliebe. **Das ist die Zahl, mit der
+    überall gerechnet wird:** Zelle, Vorschau („Gewählt … +1,76 SP“), Kaderliste (Spalte SP) und Kopf („SP Kader bis
+    Saisonende“) zeigen dieselbe Größe aus derselben Funktion.
+  - **Eignung**: erwarteter Eignungszuwachs im Ziel bis Saisonende (SP × Matrixgewicht). Das frühere Standard-Maß.
   - **Luft bis Decke**: Abstand des 60-%-Attributs zur individuellen Decke. Zeigt, wo langfristig Platz ist.
-- **Zeile:** Disziplin, Eignung, Rang in der eigenen Liga; Herz bzw. Daumen bei Vorlieben (Abschnitt 3).
+- **Beste Zelle** (Runde 2b): goldener Rahmen mit Schein und die Marke „★ Beste“; der Fuß nennt sie mit Namen und Wert. Haben
+  mehrere Zellen dieselben Skillpunkte, gewinnt die mit dem größeren Eignungszuwachs.
+- **Gewählte Zelle** (Runde 2b): **weißer Doppelrahmen** mit der Marke „Gewählt“. Weiß kommt sonst nirgends als Rahmen vor:
+  nicht bei der besten Zelle (Gold), nicht bei den vier Bereichen (Rot, Grün, Blau, Gelb), nicht bei den Vorlieben (Rosa,
+  Violett). Ist die beste Zelle gewählt, liegt Weiß außen und Gold innen, beide Marken bleiben lesbar.
+- **Zeile:** Disziplin, Eignung, Rang in der eigenen Liga. Vorlieben stehen **vor dem Namen als gefülltes rundes Symbol**
+  (Herz rosa, Daumen runter violett), dahinter der Faktor „×1,15“ bzw. „×0,80“; die Zeile ist hinterlegt und trägt links
+  einen Balken in derselben Farbe (Abschnitt 3).
 - **Zelle:** Wert, 60-%-Attribut, Marke „DECKE“, wenn die Decke diesen Weg bremst. Tooltip: alle drei Attribute mit
   Anteil, Matrixgewicht, Wert, Decke, Zuwachs, dazu die Eignung vorher und nachher.
 - **Vorschau rechts** rechnet mit derselben Funktion wie die Zelle: Weg-Profil 60/25/15 mit Decke, „Wo das ankommt“ als
   Top 6 über die Matrix, Belastung der nächsten sechs Spieltage, bei Verletzten der Hinweis „Training ruht bis …“ mit
   der gekürzten Zahl der Trainings. Diese vier Blöcke repariert der parallele Bau in `TrainingModern.tsx`; das Mockup
   zeigt sie nur stimmig mit.
-- **Kaderliste links** bleibt die Navigation: Ziel und Weg, Vorlieben, Zuwachs bis Saisonende; sortierbar nach Spieler,
-  Vorlieben und Zuwachs.
+- **Fortschritt dieser Saison** (Runde 2b): Kasten in der Vorschau mit allen zwölf Attributen, nach Bereich gefärbt, je
+  Attribut ein Mini-Balken und „+x“ seit Spieltag 1; unveränderte Attribute sind blass, der größte Fortschritt ist gold
+  umrandet, im Kopf steht die Summe („bisher +3,4 SP“). Tooltip: Wert am Saisonstart → heute. In der Kaderliste steht unter
+  der SP-Zahl klein „bisher +x“. Quelle im Spiel ist der Trainingsverlauf je Spieltag.
+- **Kaderliste links** bleibt die Navigation: Ziel und Weg, Vorlieben, Skillpunkte bis Saisonende (klein darunter das
+  bisher Gesammelte); sortierbar nach Spieler, Vorlieben und SP.
 
 ## 3. Trainingsvorlieben: zwei Lieblingsdisziplinen, eine ungeliebte
 
@@ -86,7 +111,7 @@ eine spätere Änderung der Würfelregel bestehende Spieler nicht umwirft.
 
 | | Trainingsbudget | Moral |
 |---|---:|---:|
-| Ziel ist eine **Lieblingsdisziplin** | **×1,10** | **+3**, solange sie Ziel ist |
+| Ziel ist eine **Lieblingsdisziplin** | **×1,15** | **+3**, solange sie Ziel ist |
 | Ziel ist die **ungeliebte Disziplin** | **×0,80** | **−6**, solange sie Ziel ist |
 | jede andere Disziplin | ×1,00 | 0 |
 
@@ -94,27 +119,42 @@ eine spätere Änderung der Würfelregel bestehende Spieler nicht umwirft.
   `berechneSpieltagsZuwachs`, also in derselben Rechnung für Buchung und Vorschau (gezeigt = gebucht). Der Verlaufseintrag
   bekommt ein Feld für die Vorliebe.
 - **Nicht** betroffen: die Leistungs-Hälfte der Entwicklung, die Wertung im Spiel, die Matrix, die Eignung selbst.
-- **Verhältnis zum Vorbild:** Liebling +10 % liegt zwischen Fokusachse (+8 %) und Signatur-Attribut (+15 %); ungeliebt
-  −20 % entspricht dem schwachen Attribut. Die Faktoren multiplizieren sich mit der Attribut-Affinität; das Maximum auf
-  einem Signatur-Attribut ist 1,10 × 1,15 = 1,265, das Minimum 0,80 × 0,80 = 0,64.
+- **Verhältnis zum Vorbild (Entscheidung Chris, 22.11.):** dieselben Faktoren wie die Attribut-Affinität, Liebling ×1,15
+  wie das Signatur-Attribut, ungeliebt ×0,80 wie das schwache Attribut. Die Faktoren multiplizieren sich mit der
+  Attribut-Affinität; das Maximum auf einem Signatur-Attribut ist 1,15 × 1,15 = 1,32, das Minimum 0,80 × 0,80 = 0,64.
 - **Moral** läuft als Grund in `playerMoraleState.reasons` („trainiert Lieblingsdisziplin“ / „trainiert, was er nicht
   mag“), nicht als Buchung je Spieltag: Der Grund gilt, solange das Ziel steht, und fällt mit dem Wechsel weg. Zum
   Vergleich: Ein verfehlter Intensitätswunsch kostet 12 Moral; die Vorliebe ist bewusst kleiner.
-- **KI und Delegation:** `kiTrainingsZielVorschlag` gewichtet eine Lieblingsdisziplin mit ×1,10 und die ungeliebte mit
+- **KI und Delegation:** `kiTrainingsZielVorschlag` gewichtet eine Lieblingsdisziplin mit ×1,15 und die ungeliebte mit
   ×0,80, entscheidet aber weiter nach Kaderlücke. Mensch und KI rechnen gleich; ein delegiertes Team (Ramona) nutzt
   dieselbe Funktion. Die Vorliebe gehört dem Spieler, nicht dem Manager, und ist damit mehrspielerfest.
 
 ### 3.3 Balance
 
-- **Im Ligamittel neutral nach Bauart:** Zwei von zwanzig Disziplinen geben +10 %, eine gibt −20 %. Bei zufälliger
-  Zielwahl ist der Erwartungswert (2 × 10 − 1 × 20) / 20 = **0**.
-- **In der Praxis leicht positiv**, weil gezielt gewählt wird. Rechnung mit 35 % Liebling und 3 % ungeliebt:
-  +3,5 % − 0,6 % = **+2,9 % Trainingsbudget**. Bei 60 % Training / 40 % Leistung (PR #1696) sind das **+1,7 % Entwicklung**
-  im Ligamittel, bei Diligent (75/25) +2,2 %. Im Live-Kader trainieren heute 3 von 10 Spielern zufällig ihren Liebling,
-  keiner die ungeliebte.
-- **Abnahme vor dem Scharfschalten:** Messlauf mit 32 KI-Teams über drei Saisons, Regel an gegen aus. Steigt die mittlere
-  Entwicklung um mehr als 2 %, wird `TRAINING_SETPOINTS_JE_SPIELTAG` um denselben Faktor gesenkt. Die Verteilung „wenige
-  deutlich besser, wenige deutlich schlechter, die Masse kaum“ darf sich nicht verschieben.
+- **Nicht mehr exakt neutral.** Zwei von zwanzig Disziplinen geben +15 %, eine gibt −20 %. Bei zufälliger Zielwahl sind das
+  2 × 15 − 20 = +10 Prozentpunkte über drei von zwanzig Disziplinen, also (30 − 20) / 20 = **+0,5 % Trainingsbudget** im
+  Mittel. (Mit ×1,10 war es genau 0.)
+- **In der Praxis deutlicher**, weil gezielt gewählt wird. Rechnung mit 35 % Liebling und 3 % ungeliebt:
+  0,35 × 15 − 0,03 × 20 = **+4,7 % Trainingsbudget** (mit ×1,10: +2,9 %). Bei 60 % Training / 40 % Leistung (PR #1696) sind
+  das **+2,8 % Entwicklung** im Ligamittel, bei Diligent (75/25) +3,5 %. Im Live-Kader trainieren heute 3 von 10 Spielern
+  zufällig ihren Liebling, keiner die ungeliebte: +4,5 % Budget.
+
+| Anteil der Spieler mit Ziel = Liebling (ungeliebt 3 %) | Trainingsbudget | Entwicklung (60/40) | Satz je Spieltag für Ausgleich |
+|---:|---:|---:|---:|
+| 10 % (zufällige Wahl, ungeliebt 5 %) | +0,5 % | +0,3 % | kein Ausgleich nötig |
+| 20 % | +2,4 % | +1,4 % | −2,3 % |
+| **35 % (Annahme)** | **+4,7 %** | **+2,8 %** | **−4,4 %** (Mittel 0,226 → 0,216) |
+| 50 % | +6,9 % | +4,1 % | −6,5 % |
+| 70 % (alle, die können) | +9,9 % | +5,9 % | −9,0 % |
+
+- **Ausgleich:** `TRAINING_SETPOINTS_JE_SPIELTAG` wird um den **gemessenen** Budget-Zuwachs gesenkt, nicht um die Annahme.
+  Erwartet sind rund **4 bis 5 %** (bei 35 %: Leicht 0,178 → 0,170, Mittel 0,226 → 0,216, Hart 0,320 → 0,306). Damit bleibt
+  die Entwicklung im Ligamittel gleich; wer seinen Liebling trainiert, liegt dann rund 10 % über heute, wer etwas anderes
+  trainiert, rund 4 % darunter. Das Mockup rechnet noch mit den ungesenkten Sätzen.
+- **Abnahme vor dem Scharfschalten:** Messlauf mit 32 KI-Teams über drei Saisons, Regel an gegen aus; gemessen werden der
+  Anteil der Liebling-Ziele und die mittlere Entwicklung. Liegt die Mehrentwicklung über 1 %, wird der Satz um den gemessenen
+  Budget-Faktor gesenkt und der Lauf wiederholt (Ziel: ±1 % zum Lauf ohne Regel). Die Verteilung „wenige deutlich besser,
+  wenige deutlich schlechter, die Masse kaum“ darf sich nicht verschieben.
 - rho und Pp-Abweichung sind nicht berührt: Die Mechanik im Spiel bleibt, wie sie ist.
 
 ### 3.4 Sichtbarkeit unter Scouting-Nebel
@@ -139,12 +179,12 @@ Stufe, bei Gleichstand nach Name. „Fog of War aus“ zeigt alles. Der Scouting
 
 ### 3.6 Darstellung
 
-- **Heatmap:** Herz bzw. Daumen am Disziplinnamen, die Zeile ist rosa bzw. violett hinterlegt; der Faktor steckt schon in
-  der Zellenzahl.
+- **Heatmap:** gefülltes rundes Symbol vor dem Disziplinnamen (Herz rosa, Daumen violett), dahinter der Faktor als Marke;
+  die Zeile ist rosa bzw. violett hinterlegt und links markiert. Der Faktor steckt schon in der Zellenzahl.
 - **Kaderliste:** Spalte „Vorlieben“ mit zwei Herzen und einem Daumen, Name in Disziplinfarbe. Die gerade trainierte
-  Vorliebe ist gold umrandet. Sortierbar.
+  Vorliebe ist umrandet. Sortierbar.
 - **Vorschau:** Kasten „Trainingsvorlieben“ mit drei Karten und einem Satz zur Folge der aktuellen Wahl; an der Moral
-  steht „+3“ bzw. „−6“, im Kasten „Gewählt“ die Marke „Liebling ×1,10“ bzw. „ungeliebt ×0,80“.
+  steht „+3“ bzw. „−6“, im Kasten „Gewählt“ die Marke „Liebling ×1,15“ bzw. „ungeliebt ×0,80“.
 - **Kopf:** „trainieren ihren Liebling 3 / 10“ und „trainieren Ungeliebtes 0 / 10“.
 - **Tooltip** an jedem Symbol mit Faktor und Moral.
 - Symbole sind SVG (Herz, Daumen runter), keine Emojis; Rosa und Violett sind eigene Töne, damit sie nicht mit den vier
@@ -167,7 +207,9 @@ Der Wertungs-Fingerabdruck bewegt sich nicht (kein Eingriff in die Arena-Engine)
 
 ## 5. Grenzen des Mockups
 
-- Zuwachs: Satz je Spieltag (0,178 / 0,226 / 0,32) × Rest-Spieltage, verteilt 60/25/15, Decke bremst (offen ×1, bis 6
+- **Fortschritt dieser Saison ist ein Beispielmodell:** bisheriger Plan über elf Spieltage plus zwei Attribute aus der
+  Leistungs-Hälfte. Das Abbild trägt den Verlauf je Attribut nicht; im Spiel kommt er aus dem Trainingsverlauf.
+- Skillpunkte: Satz je Spieltag (0,178 / 0,226 / 0,32) × Rest-Spieltage, verteilt 60/25/15, Decke bremst (offen ×1, bis 6
   Punkte Rest ×0,45, zu ×0,05), Eignung = Zuwachs × Matrixgewicht. Ohne Attribut-Affinität, Potenzial-Beschleuniger,
   Gebäude und Nebeneffekt. Die App zeigt die Werte der Engine; die Größenordnung (+0,2 bis +0,7 Eignung in neun
   Spieltagen) stimmt.
@@ -177,7 +219,6 @@ Der Wertungs-Fingerabdruck bewegt sich nicht (kein Eingriff in die Arena-Engine)
 
 ## 6. Offene Fragen an Chris
 
-1. **Stärke:** +10 % / −20 % (Vorschlag, im Mittel neutral) oder spürbarer mit +15 % / −30 %?
-2. **Fest oder je Saison neu?** Vorschlag: fest je Spieler (scoutbar, planbar). Die Attribut-Affinität würfelt heute je
-   Saison neu.
-3. **Moral dazu (+3 / −6)** oder nur der Trainingsfaktor?
+1. **Stärke: entschieden** (Chris, 22.11.): ×1,15 / ×0,80 wie die Attribut-Affinität. Offen ist nur der Ausgleich: Satz je
+   Spieltag um den gemessenen Wert senken (erwartet 4 bis 5 %), oder das Plus als gewollte Belohnung stehen lassen?
+2. **Fest je Spieler** und 3. **Moral +3 / −6** bleiben, bis Chris etwas anderes sagt.
